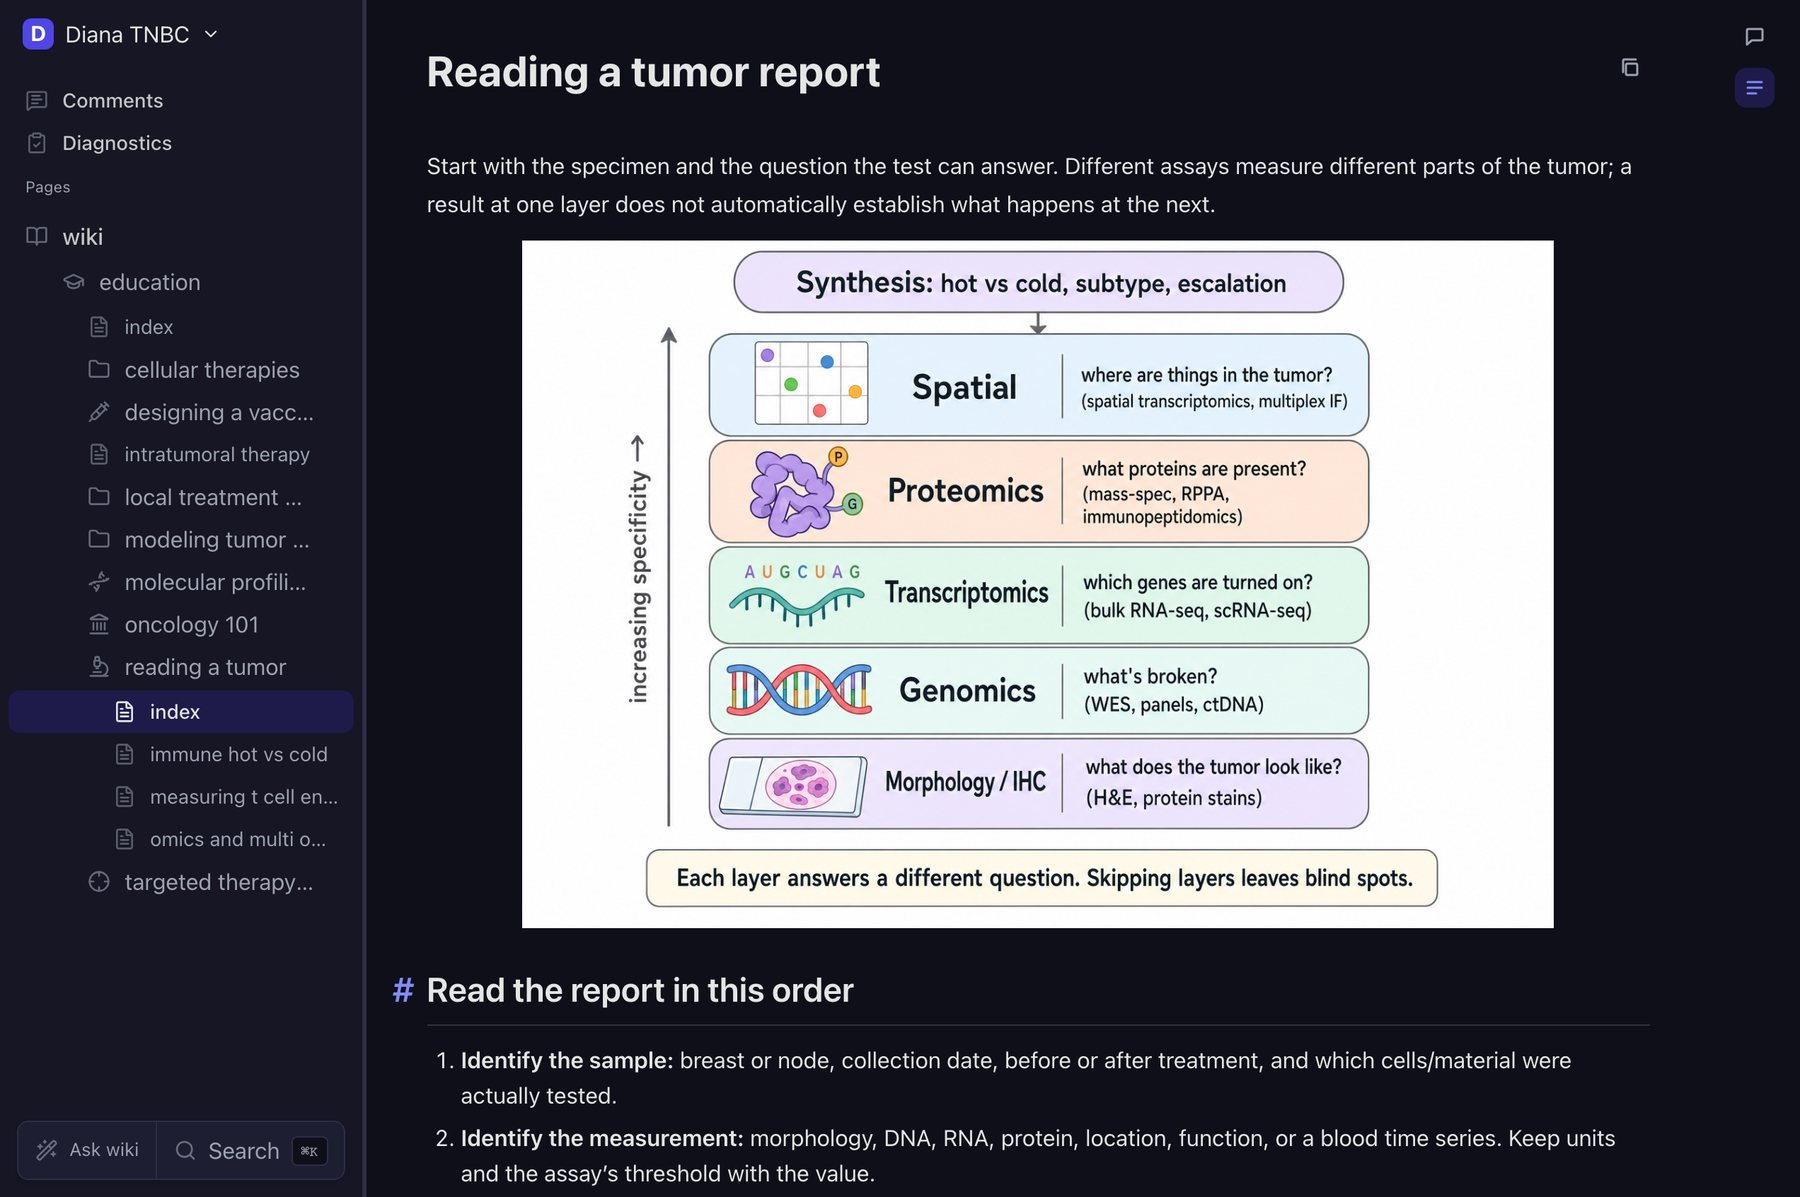
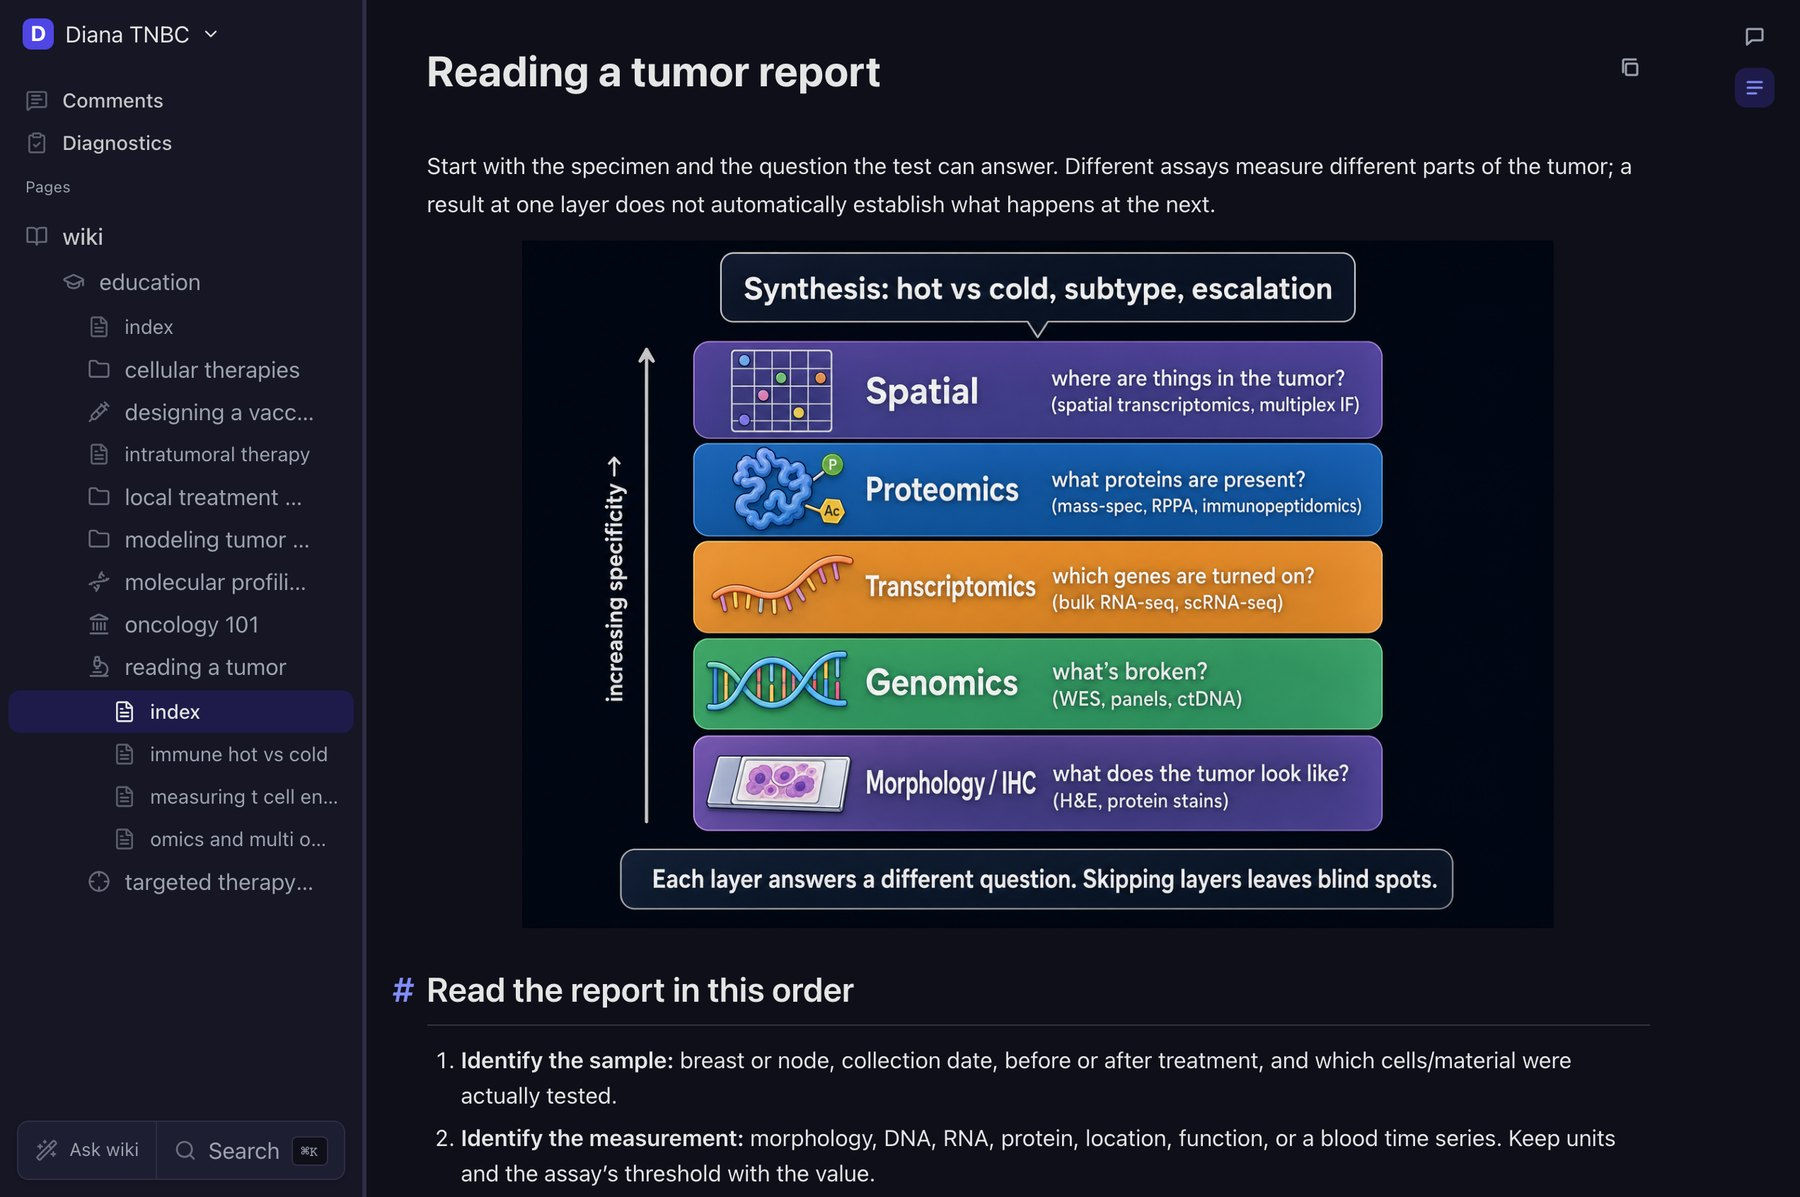
Show the dark cartoon in the dark hero screenshots
The reader publishes only the -light cartoon, so the dark reader captures
embedded a white-background illustration inside the dark chrome. Recapture
both dark hero screenshots with the vault's dark cartoon swapped in, and
record the method in the landing spec.

diff --git a/apps/app/specs/landing-page.md b/apps/app/specs/landing-page.md
@@ -54,7 +54,7 @@ The following assets are intentional public landing-page content. Theme pairs lo
 | `immune-recognition-{light,dark}.webp` | `wiki/education/oncology-101/images/immune-system-peptide-recognition-{light,dark}.png` in the Diana vault | Lossless WebP; same dimensions and pixels |
 | `cell-therapy-family-{light,dark}.webp` | `wiki/education/cellular-therapies/images/cell-therapy-family-tree-{light,dark}.png` | Lossless WebP; same dimensions and pixels |
 | `molecular-layers-{light,dark}.webp` | `wiki/education/molecular-profiling/images/central-dogma-tumor-{light,dark}.png` | Lossless WebP; same dimensions and pixels |
-| `reader-desktop-{light,dark}.jpg` | Published `/wiki/education/reading-a-tumor/index` at 1272×846, 2× scale, signed out | Browser screenshot; the signed-out sidebar prompt is hidden so the capture matches what members see; resized to 1800×1197 |
+| `reader-desktop-{light,dark}.jpg` | Published `/wiki/education/reading-a-tumor/index` at 1272×846, 2× scale, signed out | Browser screenshot; the signed-out sidebar prompt is hidden so the capture matches what members see; resized to 1800×1197. The reader serves only the `-light` cartoon, so the dark captures swap in the vault's `tumor-biology-layers-dark.png` (route interception during capture) |
 | `reader-mobile-{light,dark}.jpg` | Same published page at 393×852, 2× scale | Browser screenshot; resized to 600×1301 |
 | `diagnostics-timeline.jpg` | Published `/diagnostics` at 1272×846 with the sidebar collapsed, October 1 capture | Cropped to the populated timeline, 1192×640 |
 | `dicom-viewer.jpg` | Published `/tools/dicom-viewer?id=diagnostic-2026-08-24-breast-mri` at 1272×846, October 1 capture, with the viewer's image replaced | Cropped to 1192×640 without the toolbar filename. The image area shows a de-identified research MRI, not Diana's scan; see the credit below. |
